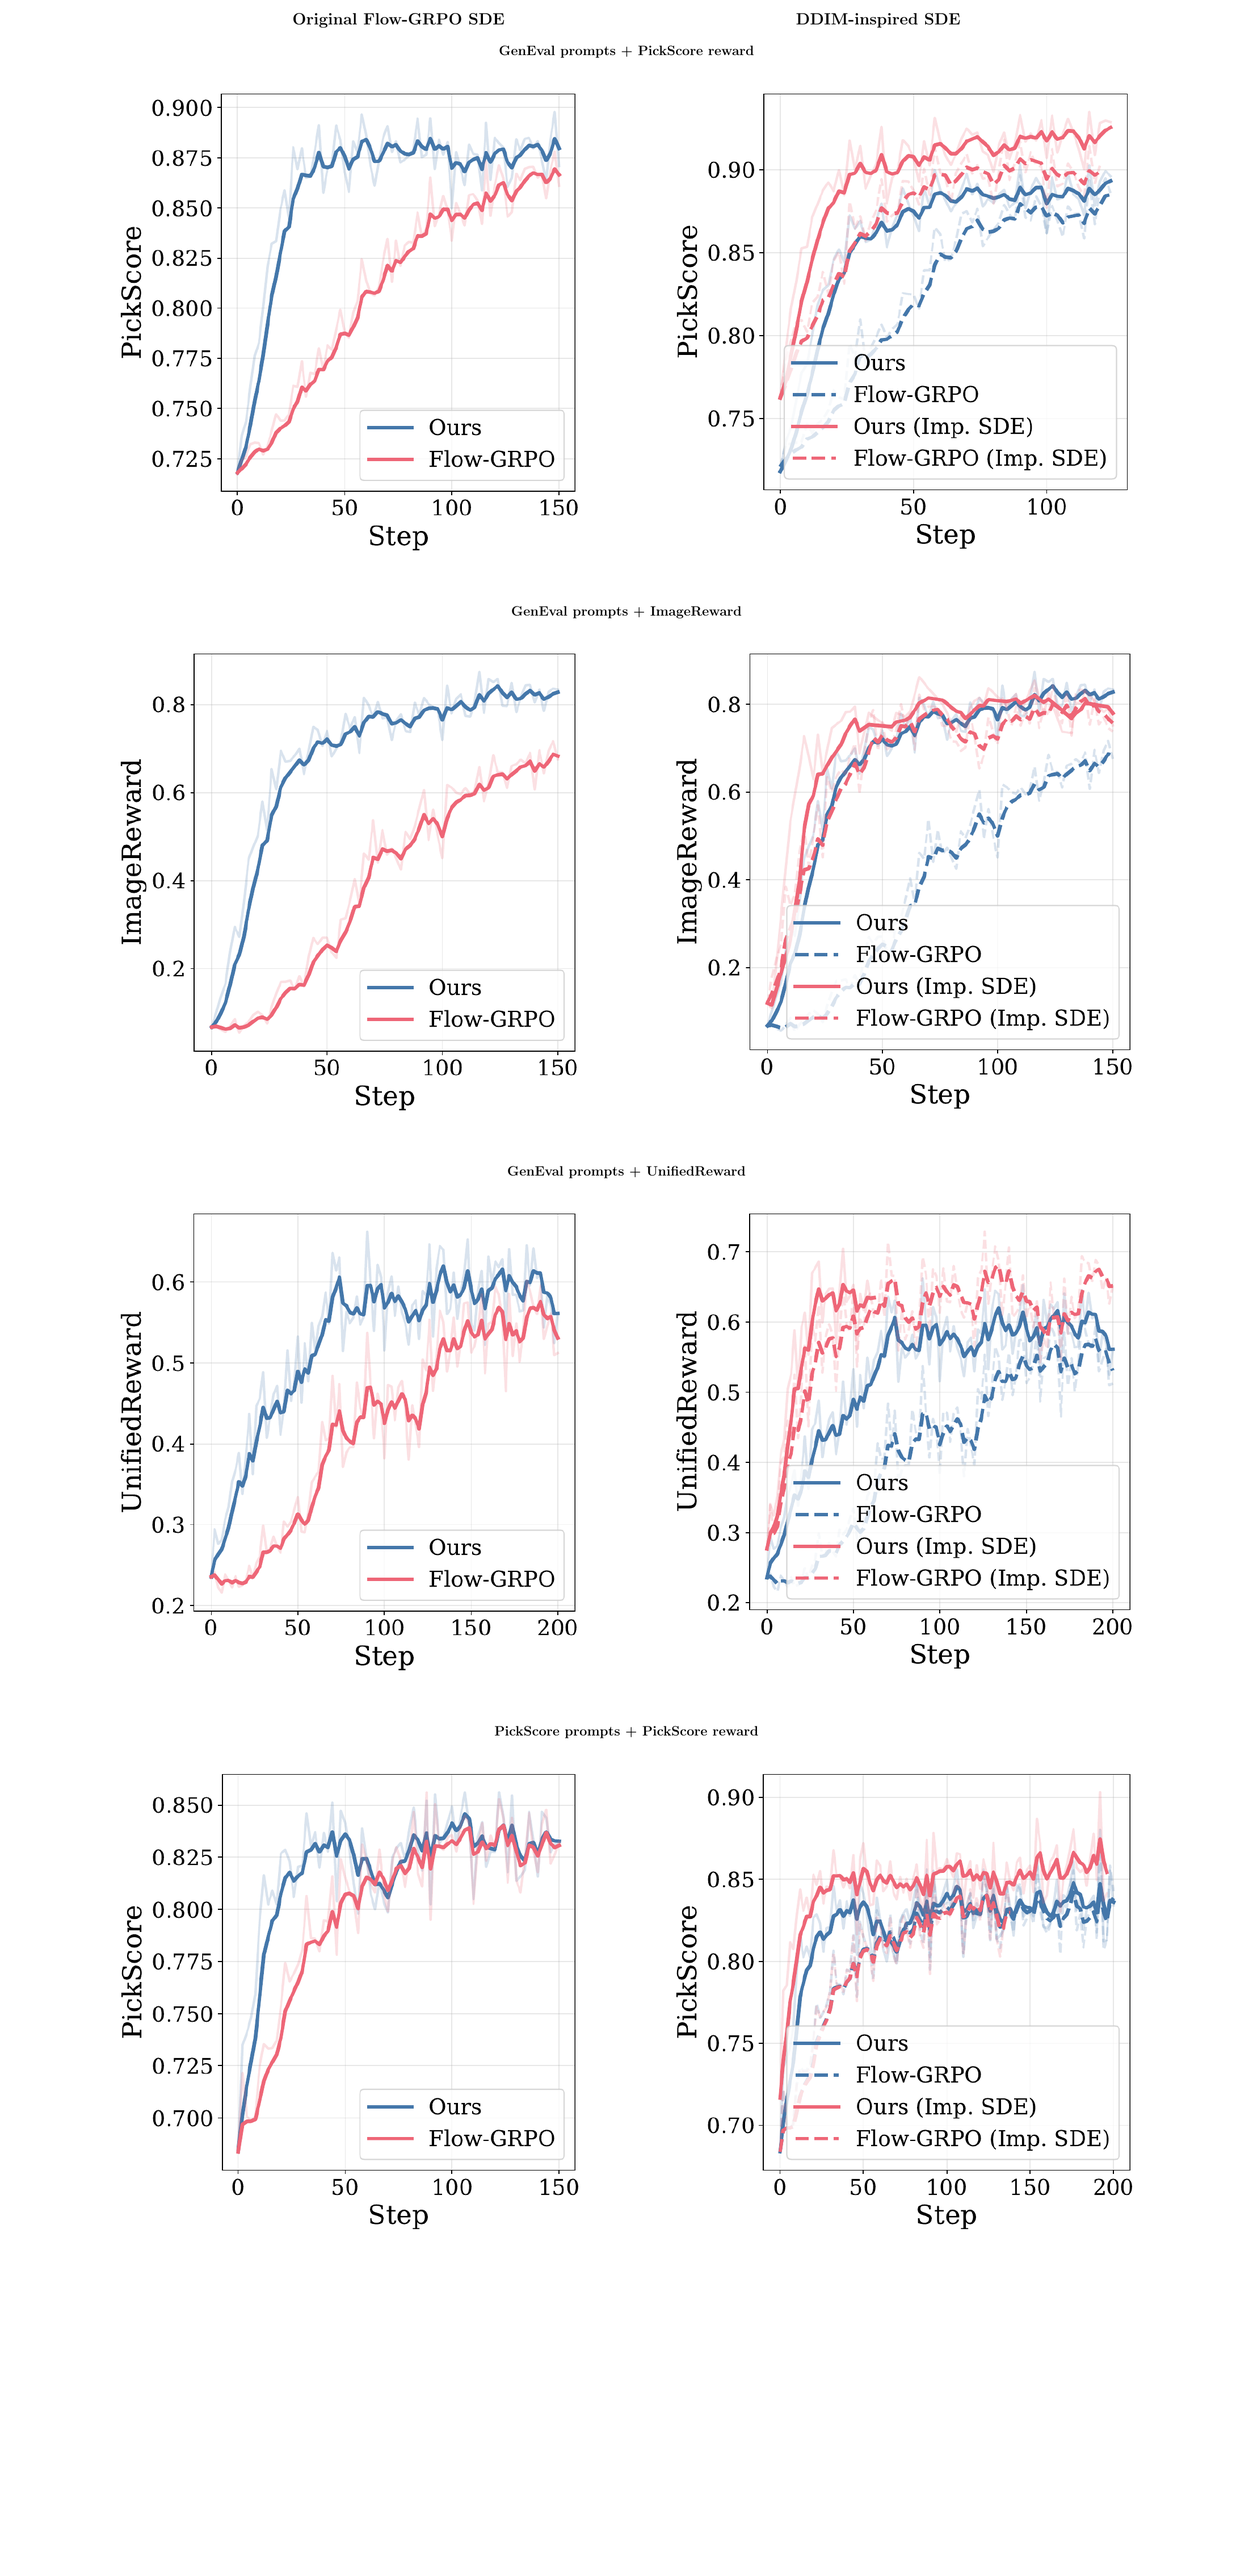
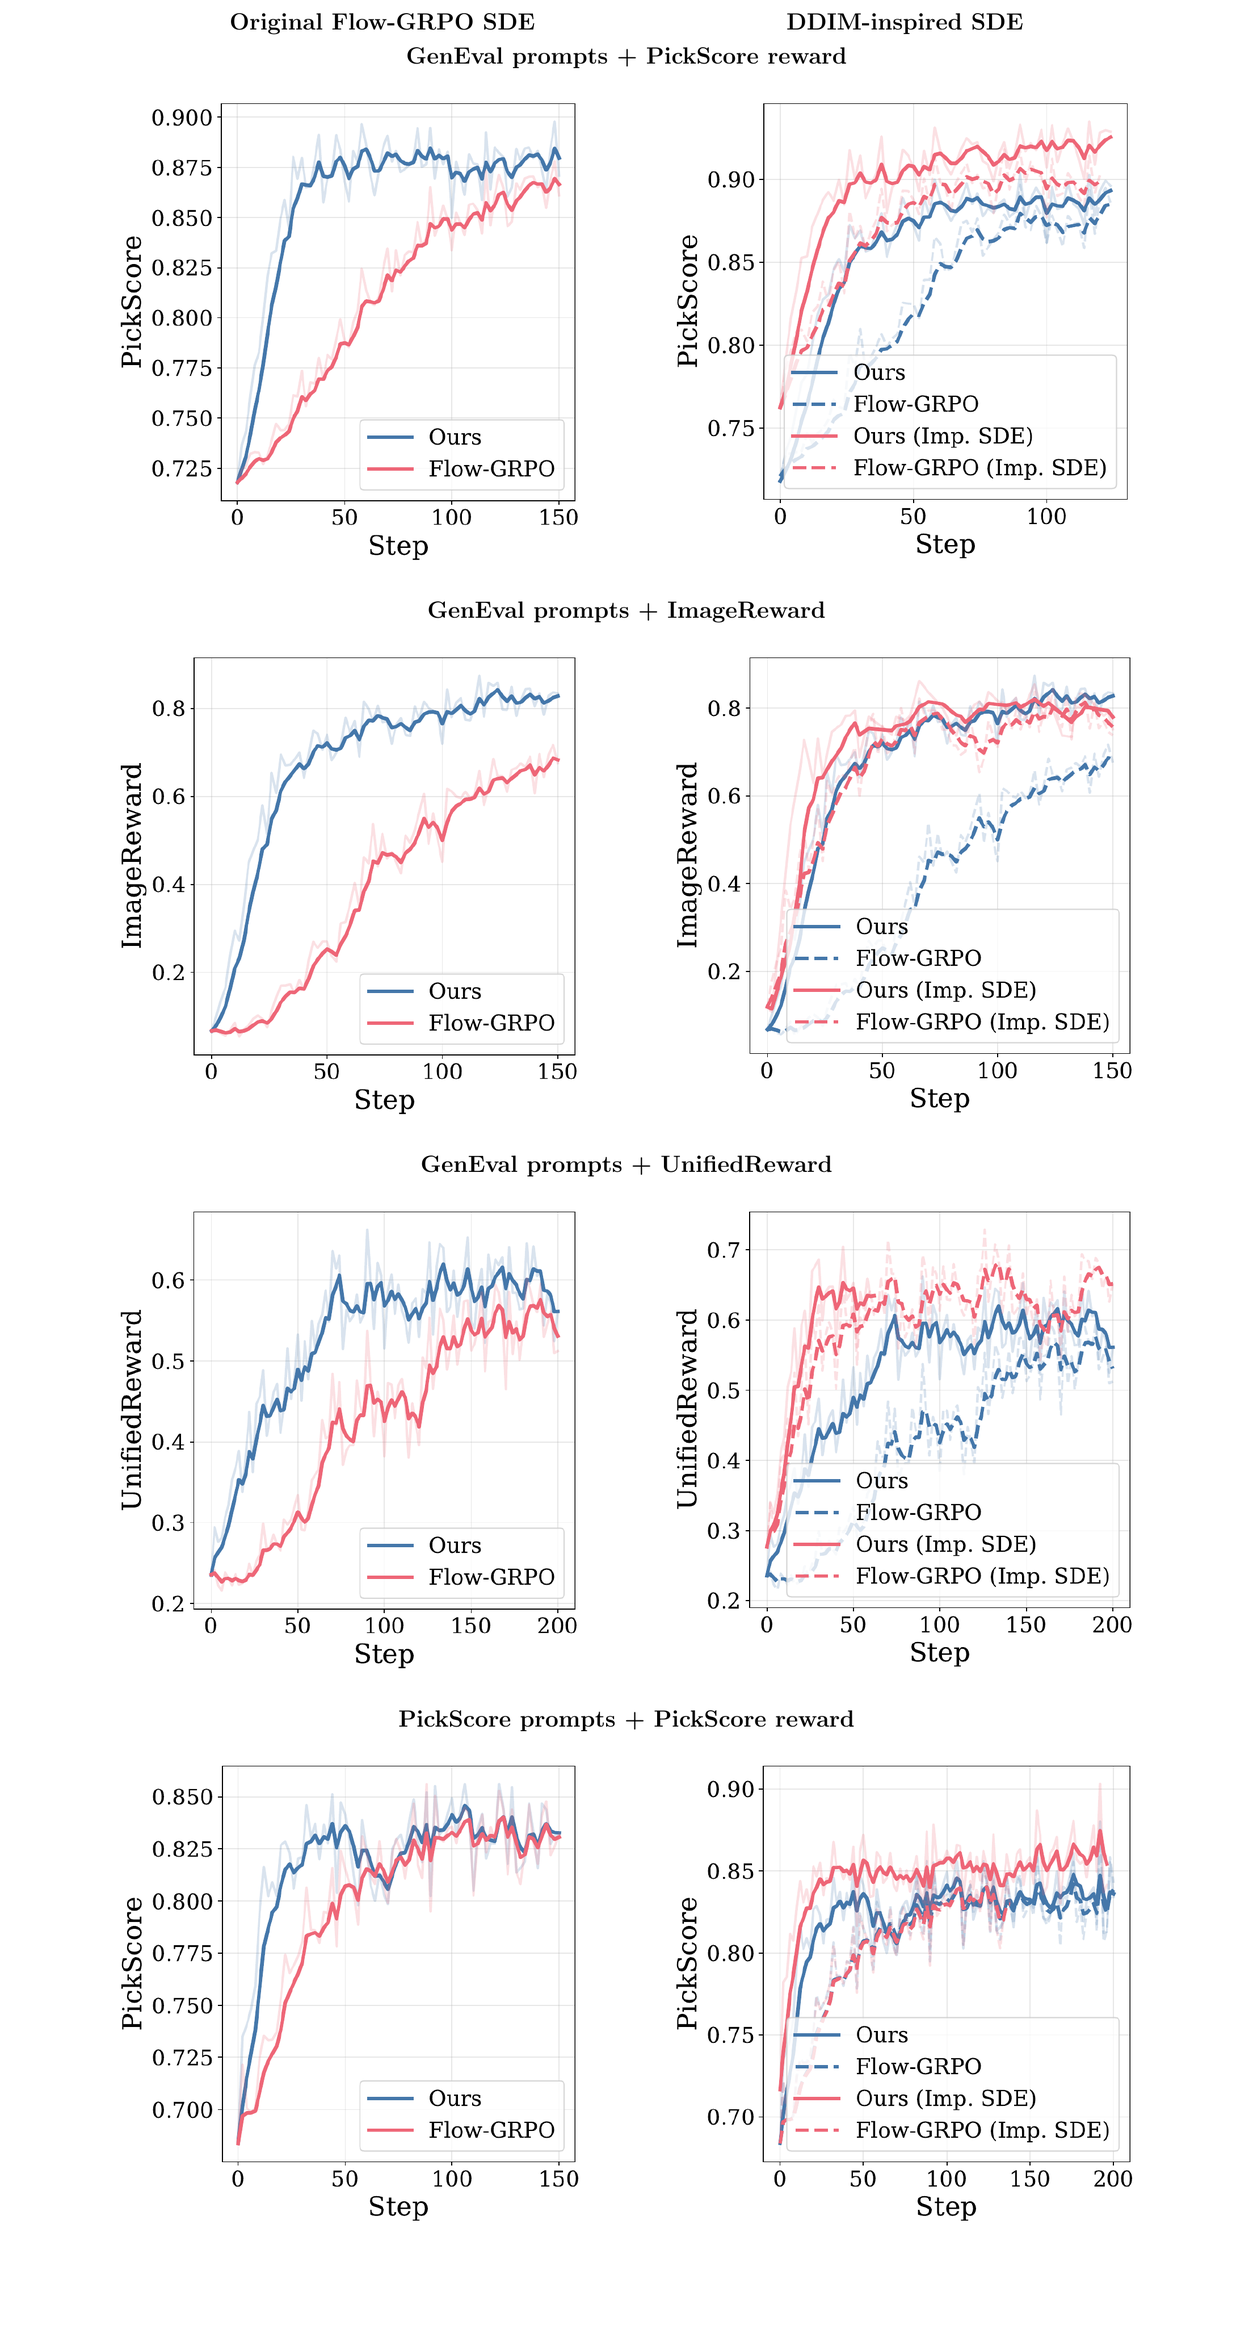
Adjust stepwise blog figure layout

diff --git a/website/content/2026/stepwise-flow-grpo.md b/website/content/2026/stepwise-flow-grpo.md
@@ -184,7 +184,7 @@ This formulation is designed around two properties. First, setting \\(\sigma\_{t
 
 There is a tradeoff. Marginal matching to the flow ODE (the property that Flow-GRPO's SDE achieves exactly) only holds for our SDE in the Taylor limit of small \\(\sigma\_{t}\\). For the small \\(\sigma\_{t}\\) we use in practice, the approximation is tight enough that the SDE remains a useful training surrogate for the ODE sampler we use at inference. The paper gives the formal Taylor-limit argument and variance calculation.
 
-![Qualitative comparison of final images sampled with each SDE. Flow-GRPO's SDE produces visibly noisy results, while our DDIM-inspired SDE produces clean images while still injecting enough stochasticity for policy gradients.](./figure8-improved-sde.png)
+<img style="width:75%; display:block; margin:auto;" src="./figure8-improved-sde.png" alt="Qualitative comparison of final images sampled with each SDE. Flow-GRPO's SDE produces visibly noisy results, while our DDIM-inspired SDE produces clean images while still injecting enough stochasticity for policy gradients.">
 
 **Figure 3.** Final images sampled with each SDE. Flow-GRPO's SDE produces visibly noisy results (middle column); our DDIM-inspired SDE produces clean images (right column) while still injecting enough stochasticity for policy gradients.
 
@@ -231,7 +231,7 @@ To check that the sample-efficiency gains carry over to final image quality, we 
 
 Qualitatively, Flow-GRPO fails on the kinds of compositional prompts that demand getting object layout right early: prompts like "a donut below a cat" or "a bus above a boat" frequently come out merged or physically implausible (e.g. a bus floating in the sky). Stepwise-Flow-GRPO is far more consistent on these prompts.
 
-![Qualitative comparison of Stepwise-Flow-GRPO and Flow-GRPO on six compositional GenEval prompts. Flow-GRPO frequently merges objects or places them in physically implausible configurations; Stepwise-Flow-GRPO produces cleaner compositions.](./figure3-qualitative.png)
+<img style="width:75%; display:block; margin:auto;" src="./figure3-qualitative.png" alt="Qualitative comparison of Stepwise-Flow-GRPO and Flow-GRPO on six compositional GenEval prompts. Flow-GRPO frequently merges objects or places them in physically implausible configurations; Stepwise-Flow-GRPO produces cleaner compositions.">
 
 **Figure 6.** Side-by-side qualitative comparison on GenEval prompts (Flow-GRPO left, Stepwise-Flow-GRPO right). Flow-GRPO merges objects in rows 1 and 5, and produces a bus floating above the water in row 3. Stepwise-Flow-GRPO produces cleaner compositions with better spatial reasoning, attribute binding, and counting.
 
